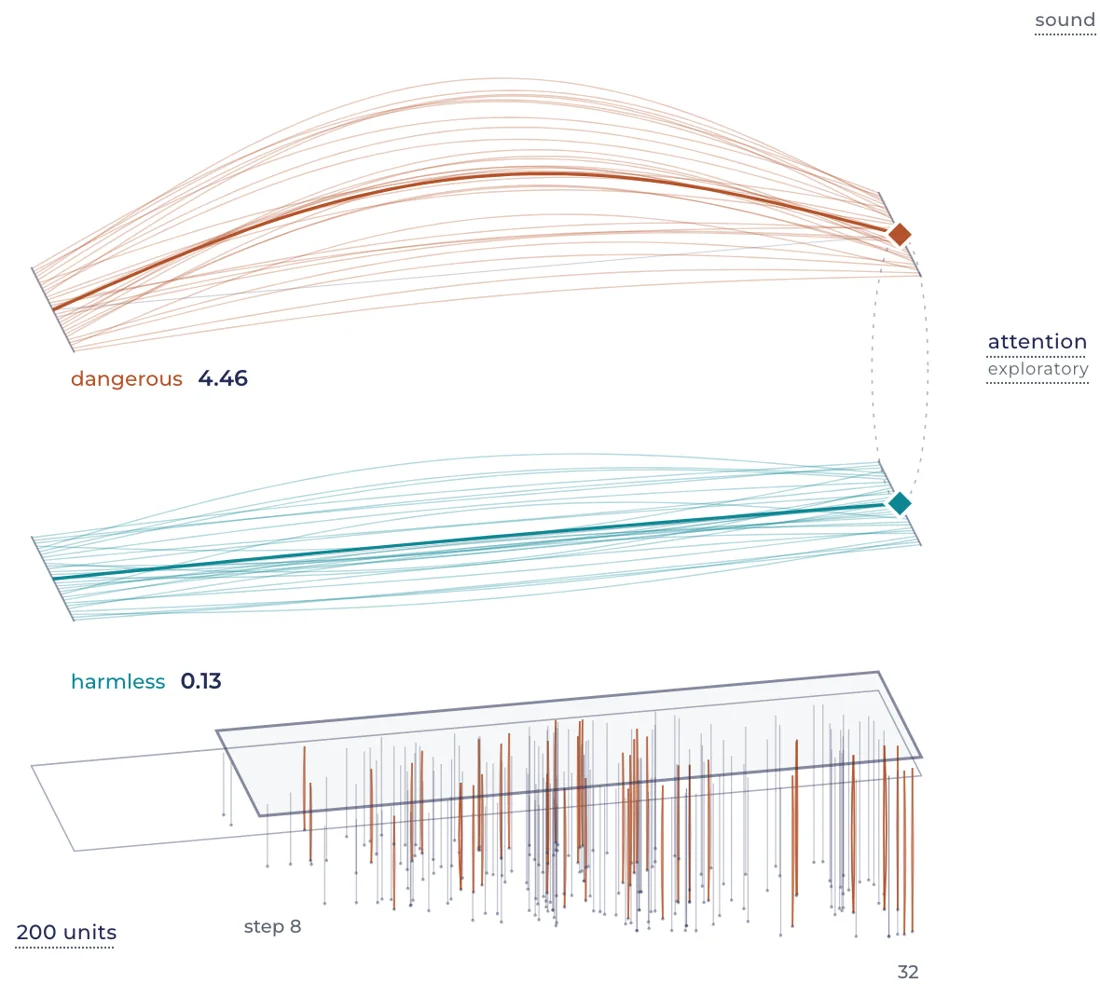
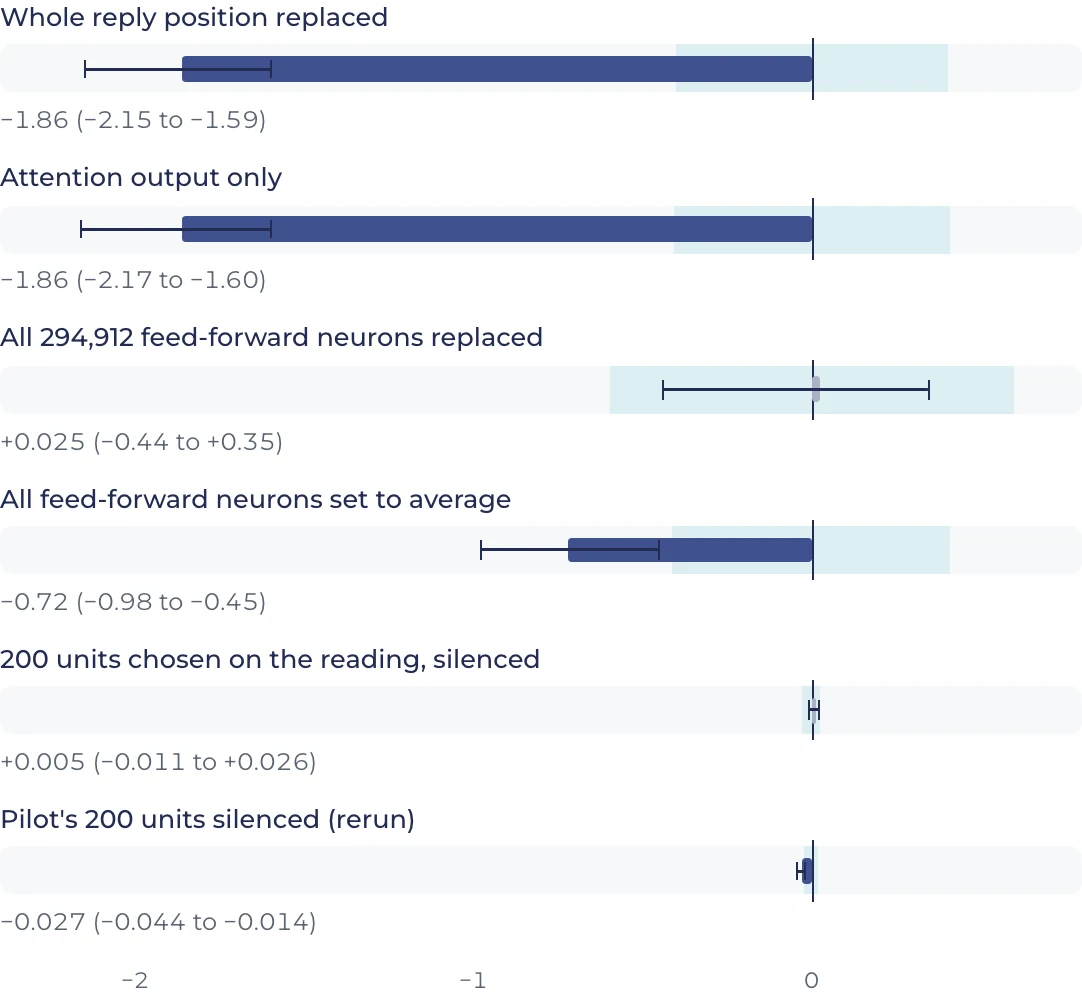
Research tiles: the danger and control tile shows the post's ladder chart
The post no longer opens with the strings figure, so the tile on the home
page and the research index now shows Figure 1 of the post, with alt text
that describes it.

diff --git a/src/data/researchItems.ts b/src/data/researchItems.ts
@@ -31,7 +31,7 @@ export const researchItems: ResearchItem[] = [
     date: "2026-11-14",
     kind: "Findings",
     image: "/images/research/tile-danger.webp",
-    alt: "Two sets of strings drawn in depth, one for dangerous messages with an urgency reading of 4.46 and one for harmless messages at 0.13, above a plane from which 200 fine strings hang for the units that best predict danger, from step 8 to step 32.",
+    alt: "A bar chart of six ways of changing the model's state at the reply position and how much each changed the urgency gap. Replacing the whole reply position and replacing only the attention output each lowered the gap by 1.86. Replacing all 294,912 feed-forward neurons changed it by +0.025, and silencing 200 chosen units changed it by +0.005 and by −0.027.",
   },
   {
     href: "/research/medication-neuron-atlas/",
